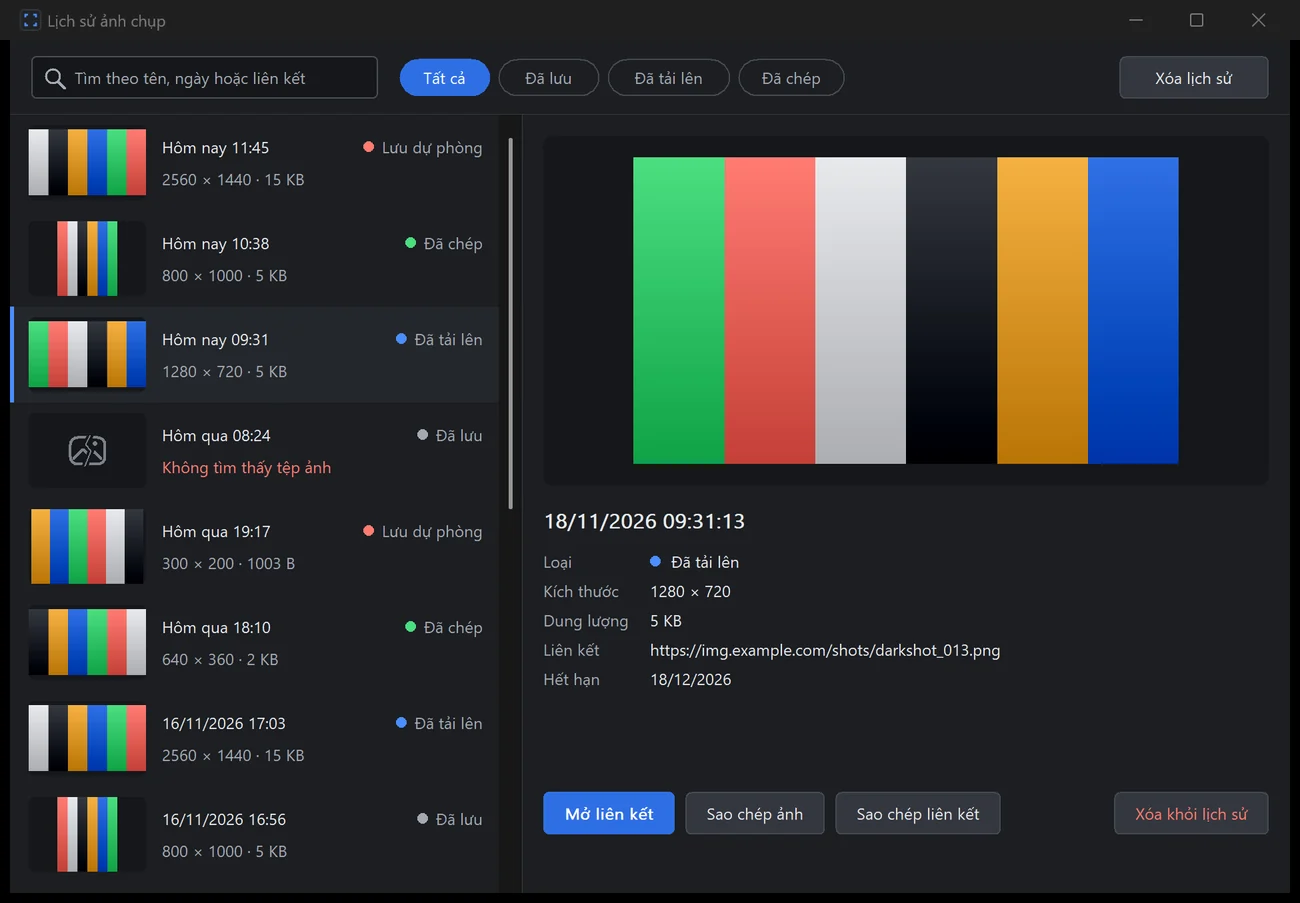
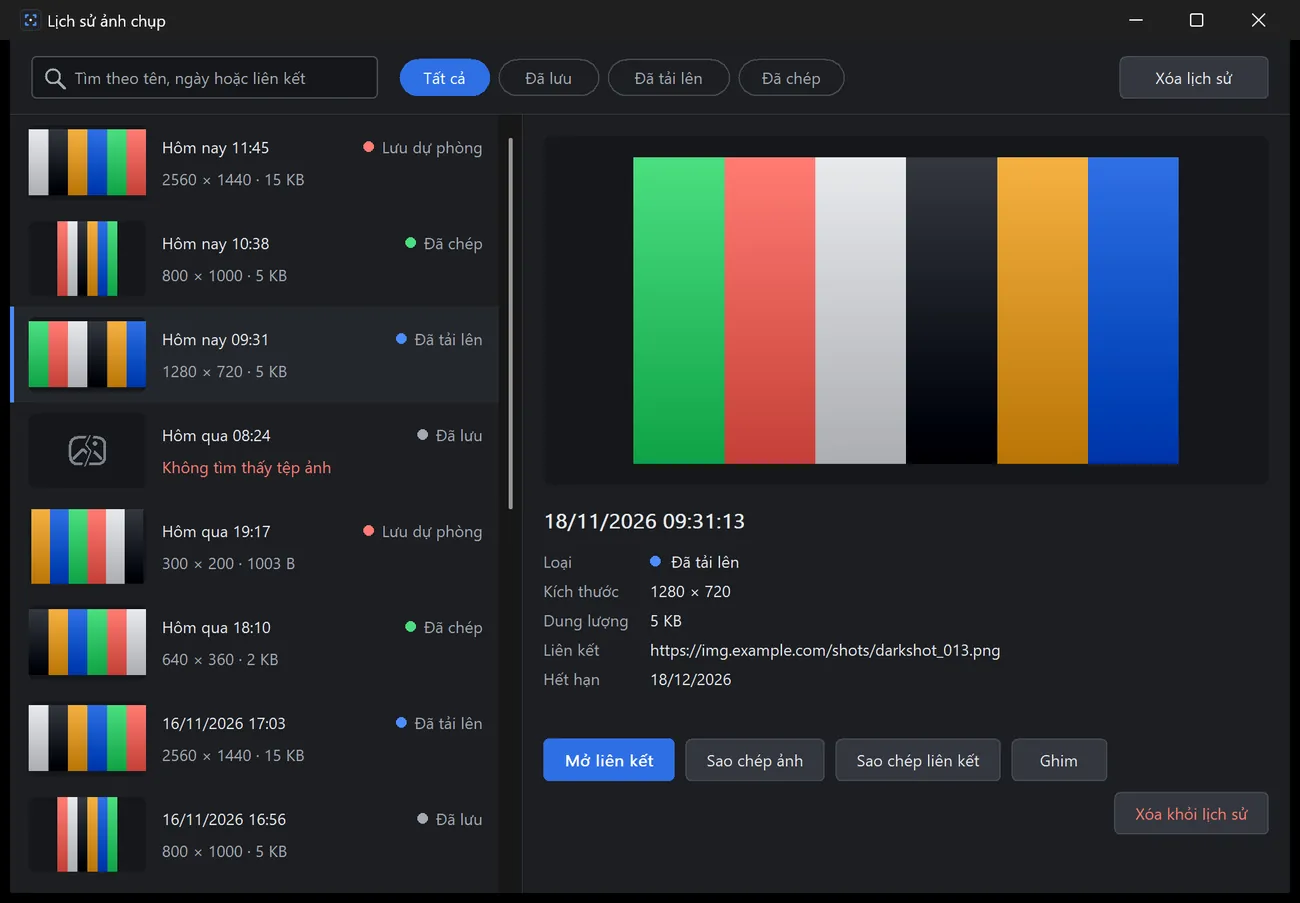
docs(website): add Pin to screen feature, shortcut and new History screenshots

Changed region(s): [[0.4, 0.8062, 0.8615, 0.9302], [0.0308, 0.0, 0.1231, 0.031]]

diff --git a/website/index.html b/website/index.html
@@ -157,7 +157,7 @@
         <div class="section-head">
           <p class="eyebrow" data-i18n="feat.eyebrow">FEATURES</p>
           <h2 id="features-title" data-i18n="feat.title">Everything between “see it” and “send it”.</h2>
-          <p class="section-lead" data-i18n="feat.lead">Eight things darkshot does well, each one a feature that exists in the app today.</p>
+          <p class="section-lead" data-i18n="feat.lead">Nine things darkshot does well, each one a feature that exists in the app today.</p>
         </div>
         <nav class="feat-nav" aria-label="Feature groups" data-i18n-attr="aria-label:feat.navLabel">
           <a href="#f-capture" data-i18n="feat.n1">Capture</a>
@@ -166,8 +166,9 @@
           <a href="#f-export" data-i18n="feat.n4">Export</a>
           <a href="#f-r2" data-i18n="feat.n5">Cloudflare R2</a>
           <a href="#f-history" data-i18n="feat.n6">History</a>
-          <a href="#f-keys" data-i18n="feat.n7">Shortcuts</a>
-          <a href="#f-custom" data-i18n="feat.n8">Customize</a>
+          <a href="#f-pin" data-i18n="feat.n7">Pin</a>
+          <a href="#f-keys" data-i18n="feat.n8">Shortcuts</a>
+          <a href="#f-custom" data-i18n="feat.n9">Customize</a>
         </nav>
 
         <!-- A. Capture -->
@@ -362,22 +363,46 @@
               <li data-i18n="ff.l2">Keeps your 50 most recent items, stored locally on your PC.</li>
               <li data-i18n="ff.l3">Thumbnails and a preview for each item.</li>
               <li data-i18n="ff.l4">Search by file name, date, type or link; filter Saved, Uploaded or Copied.</li>
-              <li data-i18n="ff.l5">Open, copy or remove entries.</li>
+              <li data-i18n="ff.l5">Open link, copy image, copy link, pin or remove entries.</li>
             </ul>
             <p class="small" data-i18n="ff.safe">Removing an entry never deletes the file you saved or the image on R2.</p>
           </div>
           <figure class="feature-visual">
             <div class="shot-frame">
-              <img data-shot="history" src="/img/history-en.webp" width="1300" height="903" loading="lazy" decoding="async" alt="darkshot's Screenshot history window: a searchable list of recent captures with a preview and Open link, Copy image, Copy link and Remove buttons." data-i18n-attr="alt:ff.alt" />
+              <img data-shot="history" src="/img/history-en.webp" width="1300" height="903" loading="lazy" decoding="async" alt="darkshot's Screenshot history window: a searchable list of recent captures with a preview and Open link, Copy image, Copy link, Pin and Remove from history buttons." data-i18n-attr="alt:ff.alt" />
             </div>
             <figcaption class="fig-note" data-i18n="ff.note">Real screenshot of the app, using placeholder demo images.</figcaption>
           </figure>
         </article>
 
-        <!-- G. Shortcuts -->
+        <!-- G. Pin -->
+        <article class="feature" id="f-pin" aria-labelledby="fp-title">
+          <div class="feature-copy">
+            <p class="tag">G</p>
+            <h3 id="fp-title" data-i18n="fp.title">Pin to screen</h3>
+            <p class="feature-pitch" data-i18n="fp.pitch">Keep a screenshot in view while you work.</p>
+            <ul class="ticks">
+              <li data-i18n-html="fp.l1">Pin a selection from the overlay with the <strong>Pin</strong> button or <kbd>Ctrl</kbd>+<kbd>P</kbd>. It lands exactly where you selected, with your annotations.</li>
+              <li data-i18n="fp.l2">Or pin any item from the Screenshot history with its Pin button.</li>
+              <li data-i18n="fp.l3">Each pin is its own window, always on top. Drag it anywhere.</li>
+              <li data-i18n-html="fp.l4">Scroll to zoom around the pointer; <kbd>Ctrl</kbd>+scroll to change opacity.</li>
+              <li data-i18n-html="fp.l5">Right-click for a menu (copy, save, zoom, opacity, close); <kbd>Esc</kbd> closes a pin.</li>
+              <li data-i18n="fp.l6">Up to 32 pins at once.</li>
+            </ul>
+            <p class="small" data-i18n="fp.safe">Pins stay on your PC: pinning never uses the network.</p>
+          </div>
+          <figure class="feature-visual">
+            <div class="shot-frame">
+              <img data-shot="history" src="/img/history-en.webp" width="1300" height="903" loading="lazy" decoding="async" alt="darkshot's Screenshot history window with the Pin button next to Copy link, used to pin the selected capture to the screen." data-i18n-attr="alt:fp.alt" />
+            </div>
+            <figcaption class="fig-note" data-i18n="fp.note">Real screenshot: the Pin button in the Screenshot history window.</figcaption>
+          </figure>
+        </article>
+
+        <!-- H. Shortcuts -->
         <article class="feature stack" id="f-keys" aria-labelledby="fg-title">
           <div class="feature-copy wide">
-            <p class="tag">G</p>
+            <p class="tag">H</p>
             <h3 id="fg-title" data-i18n="fg.title">Keyboard shortcuts &amp; workflow</h3>
             <p class="feature-pitch" data-i18n="fg.pitch">Hands on the keys from capture to share.</p>
           </div>
@@ -390,6 +415,7 @@
                 <tr><td><kbd>Ctrl</kbd> + <kbd>D</kbd></td><td data-i18n="fg.r2">Upload and copy link</td></tr>
                 <tr><td><kbd>Ctrl</kbd> + <kbd>S</kbd></td><td data-i18n="fg.r3">Save PNG</td></tr>
                 <tr><td><kbd>Ctrl</kbd> + <kbd>C</kbd></td><td data-i18n="fg.r4">Copy image</td></tr>
+                <tr><td><kbd>Ctrl</kbd> + <kbd>P</kbd></td><td data-i18n="fg.r8">Pin to screen</td></tr>
                 <tr><td><kbd>Esc</kbd></td><td data-i18n="fg.r5">Cancel or step back</td></tr>
                 <tr><td><kbd>Ctrl</kbd> + <kbd>Z</kbd></td><td data-i18n="fg.r6">Undo annotation</td></tr>
                 <tr><td><kbd>Ctrl</kbd> + <kbd>Y</kbd></td><td data-i18n="fg.r7">Redo annotation</td></tr>
@@ -402,15 +428,15 @@
                 <li data-i18n-html="fg.x2"><kbd>Ctrl</kbd>+<kbd>PrintScreen</kbd> uploads the whole screen and copies the link (off by default).</li>
                 <li data-i18n="fg.x3">All three capture shortcuts can be re-assigned or turned off in Options.</li>
               </ul>
-              <p class="small" data-i18n="fg.note">Ctrl+D, Ctrl+S and Ctrl+C work once you have a selection.</p>
+              <p class="small" data-i18n="fg.note">Ctrl+D, Ctrl+S, Ctrl+C and Ctrl+P work once you have a selection.</p>
             </div>
           </div>
         </article>
 
-        <!-- H. Customize -->
+        <!-- I. Customize -->
         <article class="feature reverse" id="f-custom" aria-labelledby="fh-title">
           <div class="feature-copy">
-            <p class="tag">H</p>
+            <p class="tag">I</p>
             <h3 id="fh-title" data-i18n="fh.title">Customization &amp; experience</h3>
             <p class="feature-pitch" data-i18n="fh.pitch">Make it fit the way you work.</p>
             <ul class="ticks">

diff --git a/website/README.md b/website/README.md
@@ -63,7 +63,7 @@ website/
 
 ## Minh họa và ảnh chụp
 
-- Hai ảnh chụp thật: cửa sổ Lịch sử (dữ liệu mẫu giữ chỗ) và cửa sổ Tùy chọn (tab Thông thường, đã cắt bỏ ô Thư mục lưu vì chứa đường dẫn máy). Nguồn: `target/demo7/screens`, `target/demo8/screens`.
+- Hai ảnh chụp thật: cửa sổ Lịch sử (dữ liệu mẫu giữ chỗ) và cửa sổ Tùy chọn (tab Thông thường, đã cắt bỏ ô Thư mục lưu vì chứa đường dẫn máy). Nguồn: `target/demo7/screens`, `target/demo8/screens`, `target/demo9/screens` (Lịch sử có nút Ghim).
 - Mọi hình còn lại (lớp phủ chụp, thanh công cụ, đánh dấu, che thông tin, bắt cửa sổ, thanh hành động) là SVG dựng lại theo bố cục và màu thật trong `crates/darkshot-core/src/theme.rs`, luôn kèm chú thích "Minh họa". Nội dung mẫu (hóa đơn Acme, email `jane.doe@example.com`, khóa `sk_test_EXAMPLE_0000`, link `img.example.com`) đều bịa, không dữ liệu thật.
 - Cần ảnh chụp thật cho lớp phủ: chụp bằng bản build thật rồi thay `scene.ts` trong từng mục (không dùng ảnh có màn hình riêng của ai).
 
